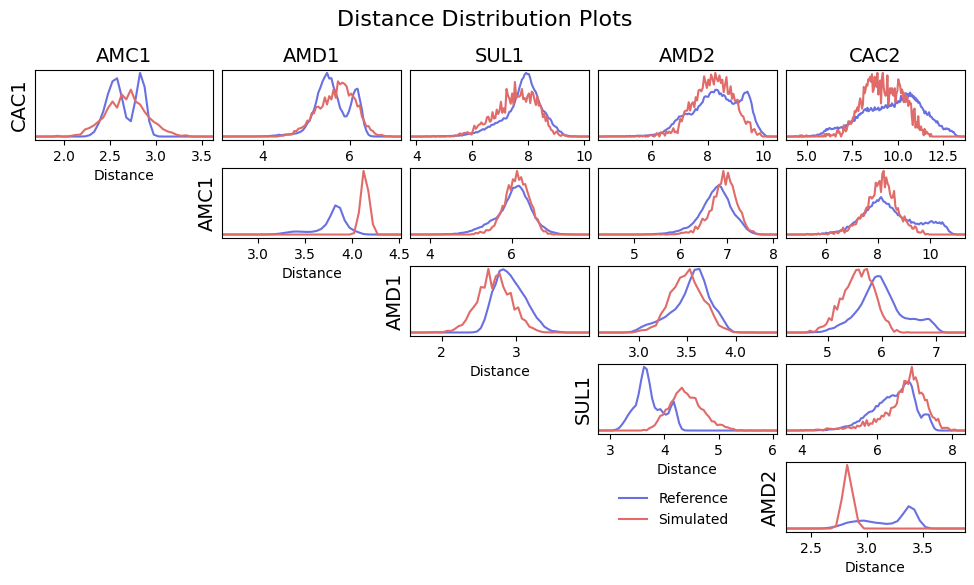
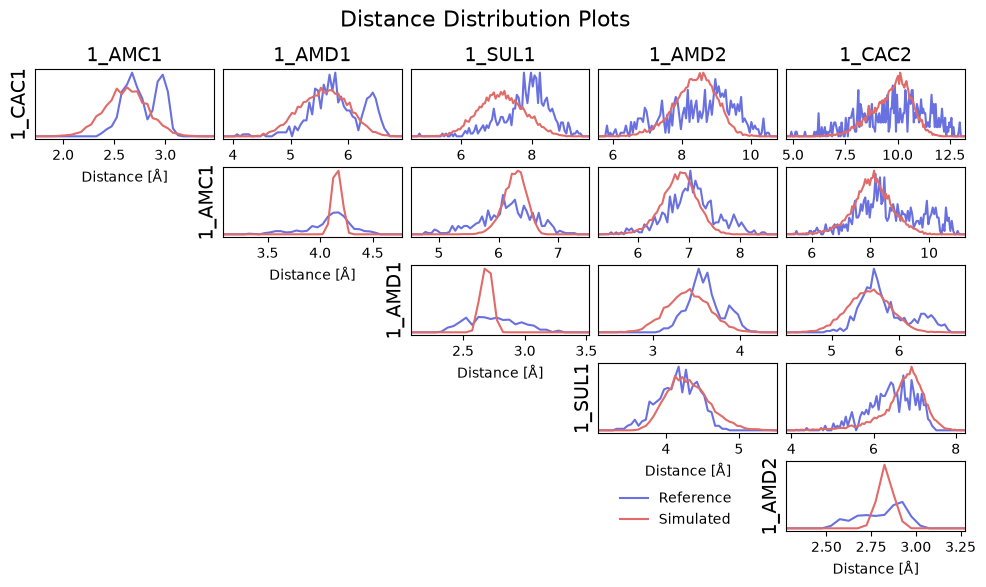
correct text in docs and update figures

Changed region(s): [[0.0, 0.0, 1.0, 0.9846]]

diff --git a/docs/source/tutorials/ff_assess_tutorial.rst b/docs/source/tutorials/ff_assess_tutorial.rst
@@ -40,7 +40,7 @@ Running ``ff_assess`` from the assessment directory:
 
 .. code-block::
 
-    ff_assess -f simulated.xtc -s simulated.tpr -i ../first_simulation/GSH.itp -d ../mapping_and_interactions/ -plots
+    ff_assess -f simulated.xtc -s simulated.tpr -i ../first_simulation/GSH.itp -d ../mapping_and_interactions/ -plots -plot-data
 
 Upon successful completion, the program will generate several comparison figures and scoring reports.
 
@@ -58,7 +58,7 @@ As well as a report with the scoring function:
 .. code-block::
 
      [ Interaction Distribution Report ]
-       Overall Score : 0.39 ± 0.08
+       Overall Score : 0.365 ± 0.0219
 
      Interaction Scores:
      0 - identical, 1 - no overlap
@@ -71,9 +71,9 @@ As well as a report with the scoring function:
             Hellinger distance (Scoring function)
 
      bonds
-        CAC1_AMC1           : 0.33 (0.25)
-        AMD1_SUL1           : 0.41 (0.45)
-        AMD1_AMD2           : 0.20 (0.17)
+        CAC1_AMC1           : 0.42 (0.44)
+        AMD1_SUL1           : 0.66 (0.50)
+        AMD1_AMD2           : 0.40 (0.43)
      ...
 
 As described above, the report contains both the Hellinger distance and the modified scoring function scores
@@ -89,11 +89,11 @@ Distance distribution assessment
 To ensure good conformational sampling by the new model, ``ff_assess`` also generates distribution comparisons for
 intramolecular distances in the newly simulated trajectory against their references. Distance scoring can be used
 to indicate where interactions are missing from the model. In further optimisation, these interactions could be
-introduced to better reproduce the molecular conformational ensemble. Where constraints are present in the system
-(as in the AMD1-AMC1 bead distance shown below), this may result in distance distributions that are not possible to
-resolve, and therefore result in high scores. For this reason, distances between constraints are normally excluded
-from the overall score reported at the top of the written report. To include them, the ``-include-constraints``
-flag can be used.
+introduced to better reproduce the molecular conformational ensemble. Where constraints are present in the system,
+this may result in distance distributions that are not possible to resolve, and therefore result in high scores.
+For this reason, distances between constraints are weighted down when calculating the overall score reported at
+the top of the written report. To weight them the same as other, unconstrained, distances, the
+``-include-constraints`` flag can be used.
 
 As before, a distribution comparison figure is generated, comparing the reference intramolecular distances to
 the newly simulated ones:
@@ -109,9 +109,9 @@ The scoring matrix is also saved as a report:
 .. code-block::
 
      [ Distance Distribution Report for GSH ]
-      Overall Score : 0.37 ± 0.05
+      Overall Score : 0.316 ± 0.0149
 
-       Max Score : 0.99
+       Max Score : 0.49
 
      Score guide:
        0.0-0.3 : good
@@ -121,13 +121,13 @@ The scoring matrix is also saved as a report:
        Score Matrix:
      0 - identical, 1 - no overlap
 
-           CAC1  AMC1  AMD1  SUL1  AMD2  CAC2
-     CAC1  0.00  0.23  0.17  0.17  0.15  0.27
-     AMC1  0.23  0.00  0.99  0.15  0.22  0.26
-     AMD1  0.17  0.99  0.00  0.43  0.16  0.48
-     SUL1  0.17  0.15  0.43  0.00  0.84  0.24
-     AMD2  0.15  0.22  0.16  0.84  0.00  0.79
-     CAC2  0.27  0.26  0.48  0.24  0.79  0.00
+          1_CAC1 1_AMC1 1_AMD1 1_SUL1 1_AMD2 1_CAC2
+    1_CAC1  0.00  0.40  0.29  0.43  0.25  0.27
+    1_AMC1  0.40  0.00  0.24  0.33  0.29  0.34
+    1_AMD1  0.29  0.24  0.00  0.49  0.39  0.33
+    1_SUL1  0.43  0.33  0.49  0.00  0.25  0.26
+    1_AMD2  0.25  0.29  0.39  0.25  0.00  0.18
+    1_CAC2  0.27  0.34  0.33  0.26  0.18  0.00
 
 
 

diff --git a/docs/source/tutorials/ff_inter_tutorial.rst b/docs/source/tutorials/ff_inter_tutorial.rst
@@ -115,24 +115,25 @@ The new directive looks like this:
 .. code-block::
 
     [ bonds ]
-    1 2 1 0.264 5925.634 ; CAC1_AMC1
-    3 4 1 0.289 6211.916 ; AMD1_SUL1
-    3 5 1 0.359 9607.543 ; AMD1_AMD2
-    5 6 1 0.329 5794.11 ; AMD2_CAC2
+    1 2 1 0.278 5717.075 ; CAC1_AMC1
+    3 4 1 0.273 4900.223 ; AMD1_SUL1
+    3 5 1 0.357 8109.482 ; AMD1_AMD2
 
     #ifdef FLEXIBLE
-    2 3 1 0.383 10000 ; AMC1_AMD1
+    2 3 1 0.415 10000 ; AMC1_AMD1
+    5 6 1 0.284 10000 ; AMD2_CAC2
     #endif
 
     [ constraints ]
     #ifndef FLEXIBLE
-    2 3 1 0.383 ; AMC1_AMD1
+    2 3 1 0.415 ; AMC1_AMD1
+    5 6 1 0.284 ; AMD2_CAC2
     #endif
 
 We can see a few things:
 
 1. The bond lengths and force constants have been updated according to the fitted data.
-2. One of the bonds has been converted into a constraint. The constraint is decorated with a Gromacs conditional, for energy minimisation purposes.
+2. Two of the bonds have been converted into constraints. Each constraint is decorated with a Gromacs conditional, for energy minimisation purposes.
 3. The comments have been retained.
 
 The updated itp file should also have ``[ angles ]`` and ``[ dihedrals ]`` directives,
